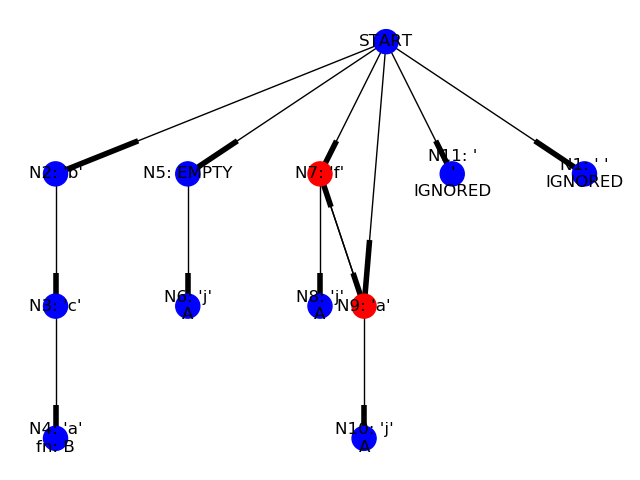
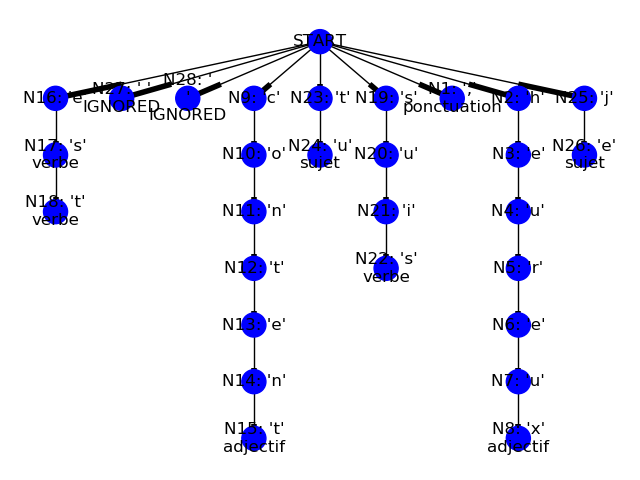
half of max_repeat refactor done

Changed region(s): [[0.0312, 0.0625, 0.9688, 0.9688]]

diff --git a/src/FiniteAutomata/FiniteAutomata.py b/src/FiniteAutomata/FiniteAutomata.py
@@ -148,12 +148,40 @@ class LexerAutomata(FiniteAutomata):
 
             # 1) Case n to inf
             if min_repeat > 0 and max_repeat > self.max_repeat_handled:
-                pass
+
+                # Generate the nodes chain forcing at least n repetitions
+                count = 1
+                node_layer = [self]
+
+                while count <= min_repeat:
+
+                    new_layer = []
+
+                    for node in node_layer:
+
+                        for formated_lookout in formated_lookouts:
+
+                            if not node.lookout_exists(formated_lookout):
+                                node.next_states[formated_lookout] = automata_class(formated_lookout)
+
+                            new_layer.append(node.next_states[formated_lookout])
+
+                    node_layer = new_layer
+
+                # Due to infinite repetition, link the final layer of nodes between themselves
+                for node in node_layer:
+                    for target in node_layer:
+                        if not node.lookout_exists(target.current_state):
+                            node.next_states[target.current_state] = target
+
+                next_states = node_layer
 
             # 2) Case 0 to inf
             if min_repeat == 0 and max_repeat > self.max_repeat_handled:
+                # Since 0 repetition is legal, we link self to self
                 nodes_to_loop = [self]
 
+                # Generate the nodes corresponding to the lookouts
                 for formated_lookout in formated_lookouts:
 
                     lookout_is_current_state = (self.current_state == formated_lookout)
@@ -164,6 +192,7 @@ class LexerAutomata(FiniteAutomata):
                     if not lookout_is_current_state:
                         nodes_to_loop.append(self.recover_lookout(formated_lookout))
 
+                # Due to infinite repetition, link all the created nodes
                 for node in nodes_to_loop:
                     for target in nodes_to_loop:
                         if not node.lookout_exists(target.current_state):
@@ -171,6 +200,7 @@ class LexerAutomata(FiniteAutomata):
 
                 next_states = nodes_to_loop
 
+                # Add self loop to each node, including the starting one to allow match with empty string
                 for state in nodes_to_loop:
 
                     # -1 is the empty string
@@ -185,45 +215,11 @@ class LexerAutomata(FiniteAutomata):
             # 3) Case n to m
             # TODO: Check
             if min_repeat > 0 and max_repeat <= self.max_repeat_handled:
-                current_states = [self]
-
-                while max_repeat >= min_repeat:
-
-                    next_states = []
-
-                    for state in current_states:
-                        for formated_lookout in formated_lookouts:
-
-                            if state.lookout_exists(formated_lookout):
-                                next_states.append(state.recover_lookout(formated_lookout))
-
-                            else:
-                                new_state = automata_class(formated_lookout)
-                                state.next_states[formated_lookout] = new_state
-                                next_states.append(new_state)
-
-                    current_states = next_states
-                    max_repeat -= 1
+                pass
 
             # 4) Case 0 to m
             if min_repeat == 0 and max_repeat <= self.max_repeat_handled:
                 pass
-
-            # Case where empty string is accepted
-            if min_repeat == 0:
-
-                next_states = []
-
-                for state in current_states:
-
-                    # -1 is the empty string
-                    if state.lookout_exists(-1):
-                        next_states.append(state.recover_lookout(-1))
-
-                    else:
-                        new_state = automata_class(-1)
-                        state.next_states[-1] = new_state
-                        next_states.append(new_state)
 
         # Adding a single layer of states, no repetition involved
         else:

diff --git a/tests/test_lexer.py b/tests/test_lexer.py
@@ -5,12 +5,19 @@ def B(t, value):
     return "B_token"
 
 rules = [
-    ("[af]*j", "A"),
-    ("bca", B),
-    (" ", None)
+    (" ", None),
+    ("je", "sujet"),
+    ("tu", "sujet"),
+    ("suis", "verbe"),
+    ("es", "verbe"),
+    ("est", "verbe"),
+    ("content", "adjectif"),
+    ("heureux", "adjectif"),
+    (",", "ponctuation")
 ]
 
-code = "ajajbcaajbcaaj\n\najfjbca"
+code = """je suis content, es tu content
+tu es heureux"""
 
 lexer = Lexer.Lexer(rules=rules, line_rule="\n")
 
@@ -23,7 +30,6 @@ while True:
 
     if token:
         print token
-        print token.value
     else:
         break
 
